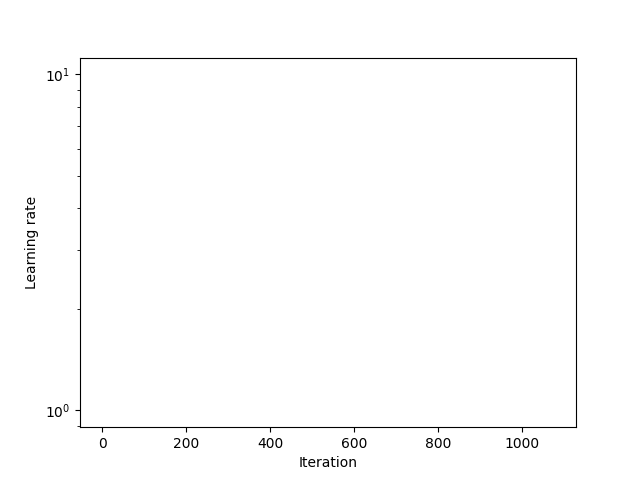
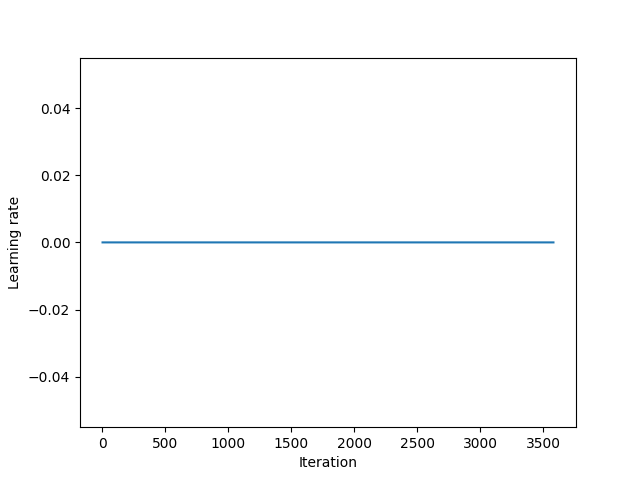
backup

diff --git a/train_encoder.py b/train_encoder.py
@@ -44,7 +44,7 @@ IMAGE_SHAPE = [224, 224, 3]
 FILTER_SIZE = 23
 
 PROJECTOR_DIMENSIONALITY = 1024
-LEARNING_RATE_BASE = 1e-6
+LEARNING_RATE_BASE = 5e-4
 
 PREPROCESSING_CONFIG = {
     'vertical_flip_probability': 0.5,
@@ -140,6 +140,7 @@ ds_a = ds_a.map(
 )
 ds_a = ds_a.map(lambda x: tf.clip_by_value(x, 0, 1), num_parallel_calls=tf.data.experimental.AUTOTUNE)
 
+"""CHANGE THIS LATER"""
 ds_b = create_encoder_dataset(datagen_b)
 ds_b = ds_b.map(
     lambda x: image_augmentation.augment(x, 1, FILTER_SIZE, config=PREPROCESSING_CONFIG),
@@ -210,15 +211,15 @@ with strategy.scope():
         warmup_learning_rate=0.0,
         warmup_steps=WARMUP_STEPS
     )
-    optimizer = tf.keras.optimizers.Adam(0)
+    optimizer = tf.keras.optimizers.Adam(learning_rate=lr_decay_fn)
 
-    from utils.train.callbacks import LRFinder
-    lr_finder = LRFinder(
-        min_lr=1e-9,
-        max_lr=1e-1,
-        steps_per_epoch=STEPS_PER_EPOCH,
-        epochs=EPOCHS
-    )
+    # from utils.train.callbacks import LRFinder
+    # lr_finder = LRFinder(
+    #     min_lr=1e-9,
+    #     max_lr=1e-1,
+    #     steps_per_epoch=STEPS_PER_EPOCH,
+    #     epochs=EPOCHS
+    # )
 
     # Get model
     barlow_twins = BarlowTwins(
@@ -247,7 +248,7 @@ history = barlow_twins.fit(
     dataset,
     epochs=EPOCHS,
     steps_per_epoch=STEPS_PER_EPOCH,
-    callbacks=[es, mc, lr_finder]
+    callbacks=[es, mc]
 )
 
 with open(os.path.join(SAVE_DIR, 'history.pickle'), 'wb') as file:

diff --git a/utils/train/callbacks.py b/utils/train/callbacks.py
@@ -80,7 +80,7 @@ class LRFinder(Callback):
     def plot_lr(self):
         """Helper function to quickly inspect the learning rate schedule."""
         plt.plot(self.history['iterations'], self.history['lr'])
-        plt.yscale('log')
+        # plt.yscale('log')
         plt.xlabel('Iteration')
         plt.ylabel('Learning rate')
 
@@ -90,7 +90,7 @@ class LRFinder(Callback):
     def plot_loss(self):
         """Helper function to quickly observe the learning rate experiment results."""
         plt.plot(self.history['lr'], self.history['loss'])
-        plt.xscale('log')
+        # plt.xscale('log')
         plt.xlabel('Learning rate')
         plt.ylabel('Loss')
 
